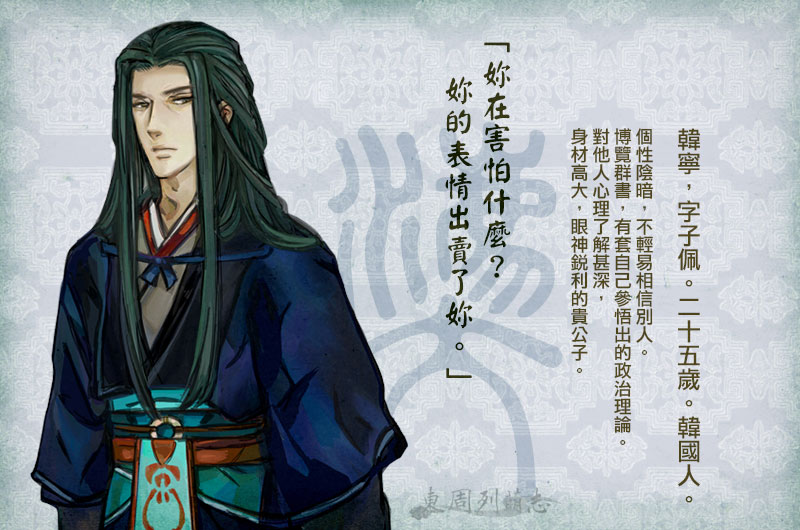
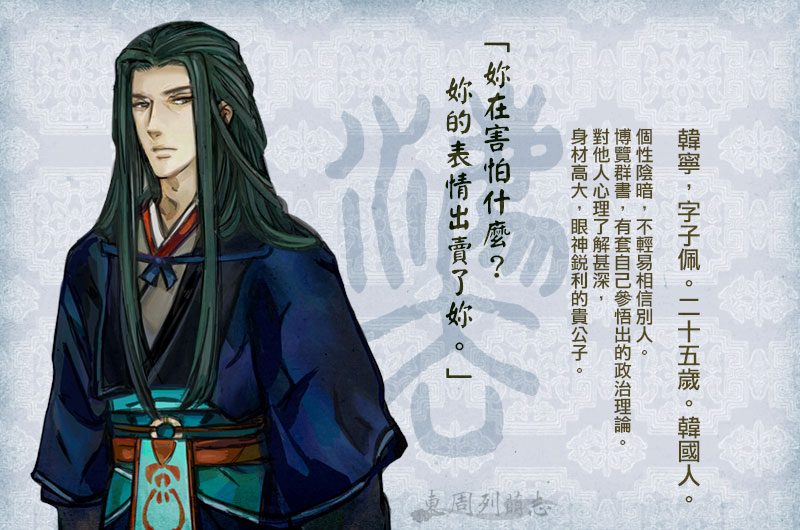
fix the ancient calligraphy of :'FA'

diff --git a/css/lemon.css b/css/lemon.css
@@ -48,7 +48,7 @@ body {
   top: -42px;
   margin: 0px;
   font-size: 14px;
-  line-height: 45px;
+  line-height: 47px;
   display: block;
   z-index: 5;
   margin: 0;
